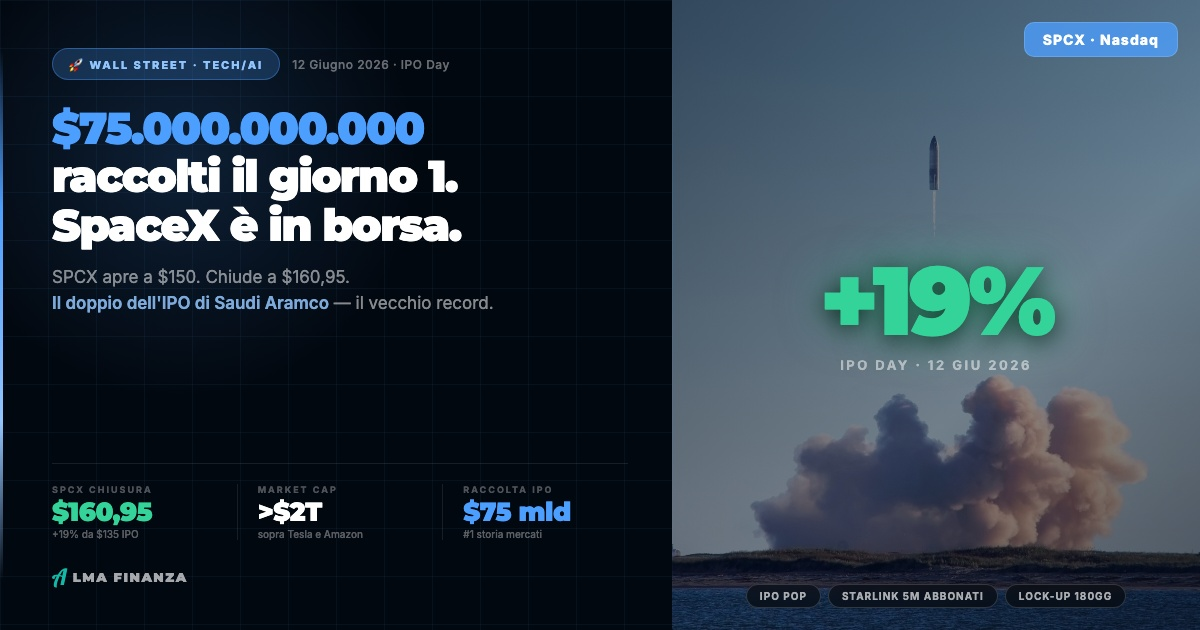
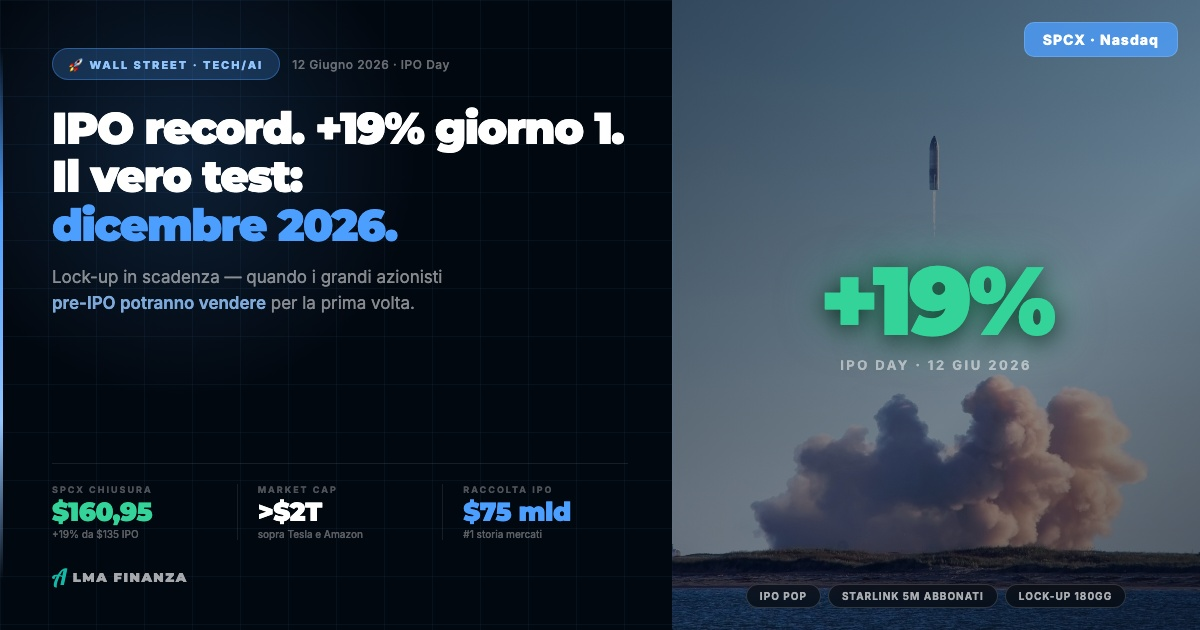
Post image SpaceX v2 — headline lock-up dicembre 2026, rimossi tutti gli zeri

Changed region(s): [[0.0308, 0.1508, 0.5242, 0.3921], [0.0308, 0.4222, 0.4008, 0.5127]]

diff --git a/output/post_image_spacex.html b/output/post_image_spacex.html
@@ -295,14 +295,14 @@ body { font-family: 'Inter', -apple-system, 'Helvetica Neue', Arial, sans-serif;
       </div>
 
       <div class="headline">
-        <span class="accent">$75.000.000.000</span><br>
-        raccolti il giorno 1.<br>
-        SpaceX è in borsa.
+        IPO record. +19% giorno 1.<br>
+        Il vero test:<br>
+        <span class="accent">dicembre 2026.</span>
       </div>
 
       <div class="sub">
-        SPCX apre a $150. Chiude a $160,95.<br>
-        <em>Il doppio dell'IPO di Saudi Aramco</em> — il vecchio record.
+        Lock-up in scadenza — quando i grandi azionisti<br>
+        <em>pre-IPO potranno vendere</em> per la prima volta.
       </div>
     </div>
 